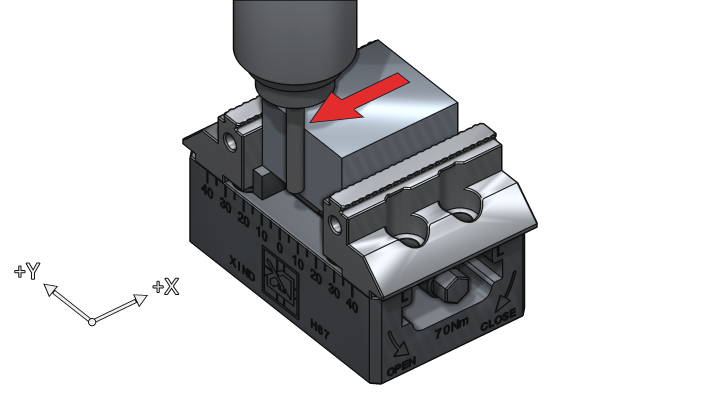
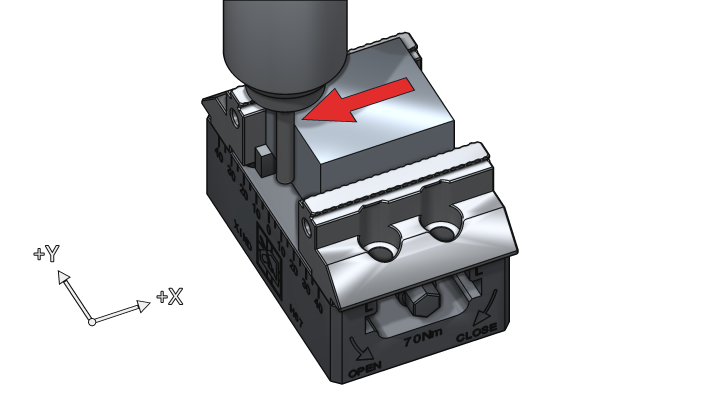
VISE STOP renders: one fixed camera, vise turns 90 deg for jaws along Y
The camera used to swing per jaw axis and pin side, so the +X/+Y indicator
pointed differently in each picture. Now all four use the same camera
(azimuth -25, elevation 45); only the vise model rotates. Images regenerated.

Claude-Session: https://claude.ai/code/session_014oRYSyCokBsp7VNRGXsHZM

Changed region(s): [[0.2444, 0.0, 0.7639, 0.96], [0.0611, 0.69, 0.275, 0.81], [0.0, 0.6, 0.0917, 0.69]]

diff --git a/tools/vise_render/make_images.py b/tools/vise_render/make_images.py
@@ -90,11 +90,14 @@ def scene(vise, jaws, side):
     return objs, fit, u_pin
 
 
+CAM_AZIMUTH = -25.0     # front-left, the operator's side of the table
+CAM_ELEVATION = 45.0    # high enough to see the pin over the part
+
+
 def camera(axis, side):
-    """Operator's view from the front, swung toward the pin so it is not hidden by the part."""
-    if axis == "X":
-        return r.Ortho(-38 if side > 0 else 38, 38)   # pin on -X: look from front-left
-    return r.Ortho(30, 50 if side < 0 else 38)          # pin at +Y (back): look over the part
+    """One fixed camera for every picture: only the vise turns between X and Y,
+    so the +X/+Y indicator points the same way in all of them."""
+    return r.Ortho(CAM_AZIMUTH, CAM_ELEVATION)
 
 
 def to_machine(objs, fit, axis):

diff --git a/docs/VISE_STOP.md b/docs/VISE_STOP.md
@@ -37,10 +37,10 @@ bottom (parallel top) in Z.**
 
 The right panel shows the H67 the way it sits on the table (jaws along X
 or Y), with the part centered, the stop pin in the spindle on the chosen side,
-and a red arrow for which way to push the part. The camera always looks from
-the front, swung toward the pin. The +X / +Y indicator in the bottom-left corner
-shows the machine axes as that camera sees them, so you can match the picture to
-the table.
+and a red arrow for which way to push the part. Every picture uses the same
+camera (front-left, 45° down), so for jaws along Y the whole vise is simply
+turned 90° and the +X / +Y indicator in the bottom-left corner points the same
+way in all of them.
 
 The picture's frame turns red if the touch probe is loaded or the tool has no
 diameter. The picture is drawn with a 6 mm
